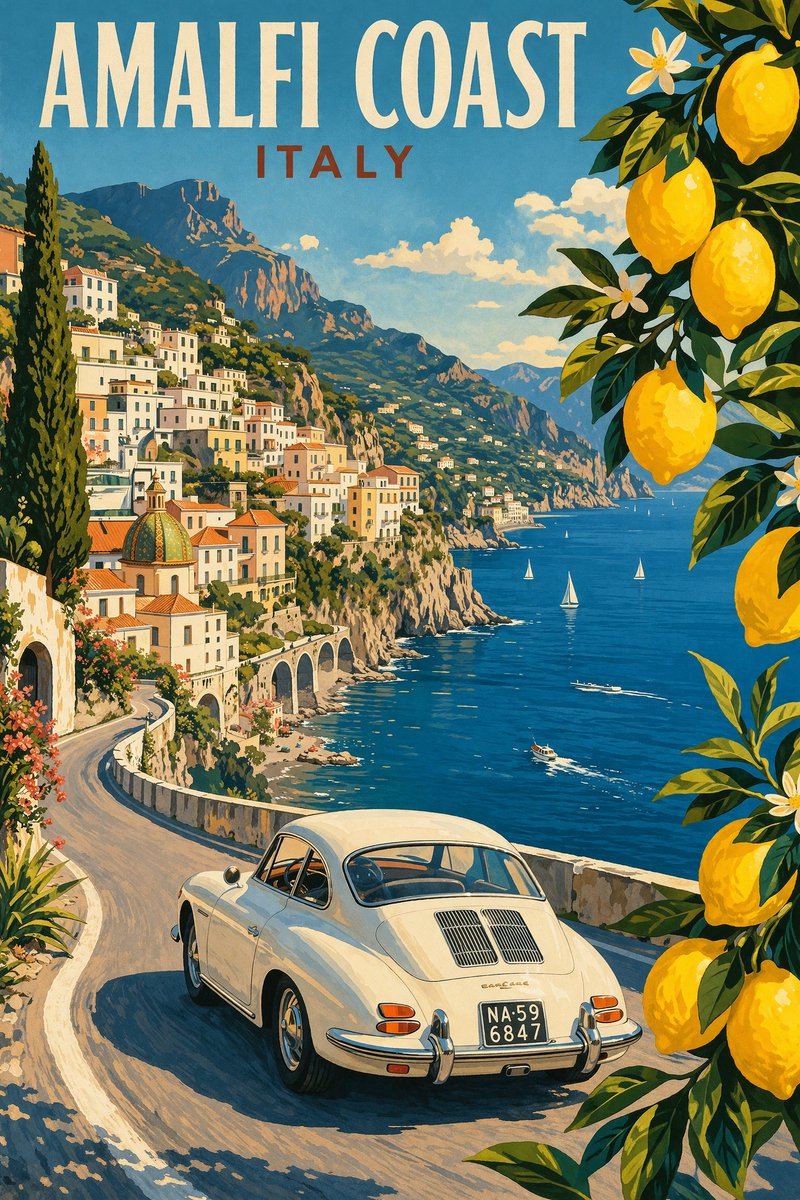
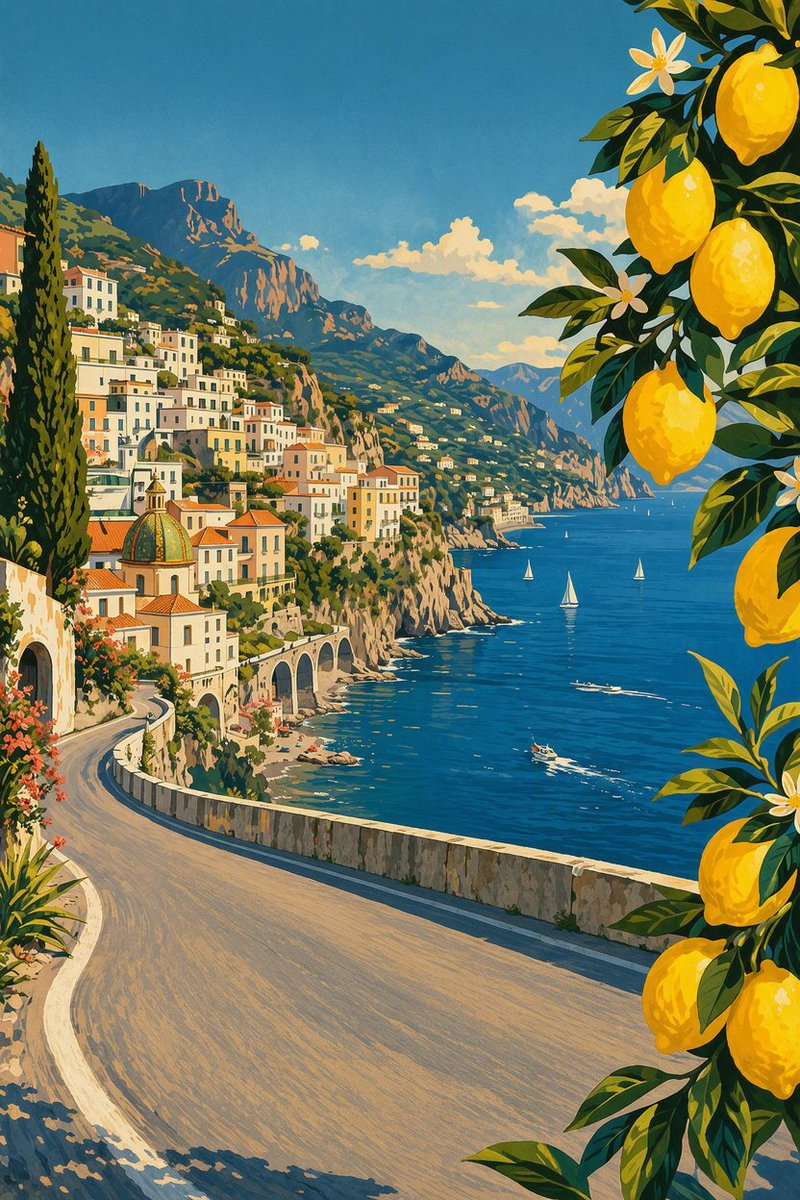
Curate cases: remove non-generated UI case, give comparisons 2 images
- Remove @seisei_ai_1st 'AI News Top 3' UI case (a news infographic, not a MAI-generated image); promote @tmiyatake1 to UI Case 1
- @WolfRiccardo object-removal edit now shows Input + Output (before/after)
- @eyupyusufa now shows both source images side by side (MAI-Image-2.5 | Nano Banana Pro)
- Every comparison case has >=2 images
- Fix broken leaderboard credit URL (x.com/@arena -> x.com/arena)
- 9 cases total; update Menu, Acknowledge, ingested_tweets.json

diff --git a/README.md b/README.md
@@ -28,7 +28,7 @@
 
 <a href="https://x.com/berryxia/status/2061988157349130675"><img src="images/leaderboard/output.jpg" width="640" alt="MAI-Image-2.5 ranks #2 on the LMArena Image Edit leaderboard"></a>
 
-***MAI-Image-2.5 lands #2 on the LMArena Image Edit leaderboard — ahead of Nano Banana Pro.*** (leaderboard shared by [@berryxia](https://x.com/berryxia))
+***MAI-Image-2.5 lands #2 on the LMArena Image Edit leaderboard — ahead of Nano Banana Pro.*** (leaderboard shared by [@arena](https://x.com/arena))
 
 </div>
 
@@ -71,8 +71,7 @@ If you find this useful, consider giving it a star. ⭐
   - [Case 2: Anime Character Illustration (by @WaifuGacha)](#case-2-anime-character-illustration-by-waifugacha)
   - [Case 3: Pose Edit with Art-Style Preservation (by @genel_ai)](#case-3-pose-edit-with-art-style-preservation-by-genelai)
 - [🖥 UI & Social Media Mockup Cases](#-ui--social-media-mockup-cases)
-  - [Case 1: AI News Top 3 Infographic Card (by @seisei_ai_1st)](#case-1-ai-news-top-3-infographic-card-by-seiseiai1st)
-  - [Case 2: Model Lineup Social Card (by @tmiyatake1)](#case-2-model-lineup-social-card-by-tmiyatake1)
+  - [Case 1: Model Lineup Social Card (by @tmiyatake1)](#case-1-model-lineup-social-card-by-tmiyatake1)
 - [🆚 Comparison & Community Examples](#-comparison--community-examples)
   - [Case 1: Object Removal Edit, Text & Car (by @WolfRiccardo)](#case-1-object-removal-edit-text--car-by-wolfriccardo)
   - [Case 2: MAI-Image-2.5 vs Nano Banana Pro (by @eyupyusufa)](#case-2-mai-image-25-vs-nano-banana-pro-by-eyupyusufa)
@@ -226,28 +225,11 @@ Change only the character's pose to [new pose] while keeping the original artwor
 
 ## 🖥 UI & Social Media Mockup Cases
 
-### Case 1: [AI News Top 3 Infographic Card](https://x.com/seisei_ai_1st/status/2061997864646222028) (by [@seisei_ai_1st](https://x.com/seisei_ai_1st))
+### Case 1: [Model Lineup Social Card](https://x.com/tmiyatake1/status/2061961813009326580) (by [@tmiyatake1](https://x.com/tmiyatake1))
 
 | Output |
 | :----: |
-| <img src="images/ui_case1/output.jpg" width="600" alt="AI news Top 3 infographic social card generated by MAI-Image-2.5"> |
-
-**Prompt:**
-
-```
-A clean social-media infographic card titled "AI News Top 3". Three numbered ranked items stacked vertically, each with a bold headline, a small icon, and a one-line caption. Modern flat design, strong typographic hierarchy, balanced grid layout, brand-consistent accent color, 9:16 vertical aspect ratio suitable for a feed post. Crisp, legible text rendering.
-```
-
-> [!NOTE]
-> **Reconstructed prompt.** Replace the three ranked items and the title with your own content. Demonstrates MAI-Image-2.5's text-rendering and layout for social cards.
-
----
-
-### Case 2: [Model Lineup Social Card](https://x.com/tmiyatake1/status/2061961813009326580) (by [@tmiyatake1](https://x.com/tmiyatake1))
-
-| Output |
-| :----: |
-| <img src="images/ui_case2/output.jpg" width="600" alt="Product lineup social card listing model names and one-line descriptions, generated by MAI-Image-2.5"> |
+| <img src="images/ui_case1/output.jpg" width="600" alt="Product lineup social card listing model names and one-line descriptions, generated by MAI-Image-2.5"> |
 
 **Prompt:**
 
@@ -262,9 +244,9 @@ A product-announcement social card listing a family of AI models. A bold title a
 
 ### Case 1: [Object Removal Edit, Text & Car](https://x.com/WolfRiccardo/status/2061902205779632501) (by [@WolfRiccardo](https://x.com/WolfRiccardo))
 
-| Output |
-| :----: |
-| <img src="images/comparison_case1/output.jpg" width="600" alt="MAI-Image-2.5 image edit removing text and a car from a photo"> |
+| Input | Output |
+| :---: | :----: |
+| <img src="images/comparison_case1/input.jpg" width="300" alt="Original Amalfi Coast travel poster with title text and a white car"> | <img src="images/comparison_case1/output.jpg" width="300" alt="Same poster with the title text and car removed by MAI-Image-2.5"> |
 
 **Input:** Upload one photo to edit.
 
@@ -281,12 +263,12 @@ texts and car / remove
 
 ### Case 2: [MAI-Image-2.5 vs Nano Banana Pro](https://x.com/eyupyusufa/status/2061934129046843543) (by [@eyupyusufa](https://x.com/eyupyusufa))
 
-| Output (left: MAI-Image-2.5, right: Nano Banana Pro) |
-| :----: |
-| <img src="images/comparison_case2/output.jpg" width="600" alt="Side-by-side comparison of MAI-Image-2.5 and Nano Banana Pro outputs"> |
+| MAI-Image-2.5 | Nano Banana Pro |
+| :-----------: | :-------------: |
+| <img src="images/comparison_case2/output0.jpg" width="300" alt="MAI-Image-2.5 rendering a Turkish classroom scene with chalkboard text"> | <img src="images/comparison_case2/output1.jpg" width="300" alt="Nano Banana Pro rendering the same Turkish classroom scene with chalkboard text"> |
 
 > [!NOTE]
-> Community comparison example — the author published the side-by-side result without a reusable prompt. Included for reference on how MAI-Image-2.5 stacks up against Nano Banana Pro.
+> Community comparison example — same prompt run on both models, published without a reusable prompt. A text-rendering test (the Atatürk quote "Hayatta en hakiki mürşit ilimdir.") shown for reference on how MAI-Image-2.5 stacks up against Nano Banana Pro.
 
 ## 🙏 Acknowledge
 
@@ -300,7 +282,6 @@ Thanks to the creators and contributors who shared their MAI-Image-2.5 work publ
 - [@mk0600937254693](https://x.com/mk0600937254693)
 - [@WaifuGacha](https://x.com/WaifuGacha)
 - [@genel_ai](https://x.com/genel_ai)
-- [@seisei_ai_1st](https://x.com/seisei_ai_1st)
 - [@tmiyatake1](https://x.com/tmiyatake1)
 - [@WolfRiccardo](https://x.com/WolfRiccardo)
 - [@eyupyusufa](https://x.com/eyupyusufa)

diff --git a/cases/comparison.md b/cases/comparison.md
@@ -2,9 +2,9 @@
 
 ### Case 1: [Object Removal Edit, Text & Car](https://x.com/WolfRiccardo/status/2061902205779632501) (by [@WolfRiccardo](https://x.com/WolfRiccardo))
 
-| Output |
-| :----: |
-| <img src="../images/comparison_case1/output.jpg" width="600" alt="MAI-Image-2.5 image edit removing text and a car from a photo"> |
+| Input | Output |
+| :---: | :----: |
+| <img src="../images/comparison_case1/input.jpg" width="300" alt="Original Amalfi Coast travel poster with title text and a white car"> | <img src="../images/comparison_case1/output.jpg" width="300" alt="Same poster with the title text and car removed by MAI-Image-2.5"> |
 
 **Input:** Upload one photo to edit.
 
@@ -21,10 +21,10 @@ texts and car / remove
 
 ### Case 2: [MAI-Image-2.5 vs Nano Banana Pro](https://x.com/eyupyusufa/status/2061934129046843543) (by [@eyupyusufa](https://x.com/eyupyusufa))
 
-| Output (left: MAI-Image-2.5, right: Nano Banana Pro) |
-| :----: |
-| <img src="../images/comparison_case2/output.jpg" width="600" alt="Side-by-side comparison of MAI-Image-2.5 and Nano Banana Pro outputs"> |
+| MAI-Image-2.5 | Nano Banana Pro |
+| :-----------: | :-------------: |
+| <img src="../images/comparison_case2/output0.jpg" width="300" alt="MAI-Image-2.5 rendering a Turkish classroom scene with chalkboard text"> | <img src="../images/comparison_case2/output1.jpg" width="300" alt="Nano Banana Pro rendering the same Turkish classroom scene with chalkboard text"> |
 
 > [!NOTE]
-> Community comparison example — the author published the side-by-side result without a reusable prompt. Included for reference on how MAI-Image-2.5 stacks up against Nano Banana Pro.
+> Community comparison example — same prompt run on both models, published without a reusable prompt. A text-rendering test (the Atatürk quote "Hayatta en hakiki mürşit ilimdir.") shown for reference on how MAI-Image-2.5 stacks up against Nano Banana Pro.
 

diff --git a/cases/ui.md b/cases/ui.md
@@ -1,27 +1,10 @@
 # 🖥 UI & Social Media Mockup Cases
 
-### Case 1: [AI News Top 3 Infographic Card](https://x.com/seisei_ai_1st/status/2061997864646222028) (by [@seisei_ai_1st](https://x.com/seisei_ai_1st))
+### Case 1: [Model Lineup Social Card](https://x.com/tmiyatake1/status/2061961813009326580) (by [@tmiyatake1](https://x.com/tmiyatake1))
 
 | Output |
 | :----: |
-| <img src="../images/ui_case1/output.jpg" width="600" alt="AI news Top 3 infographic social card generated by MAI-Image-2.5"> |
-
-**Prompt:**
-
-```
-A clean social-media infographic card titled "AI News Top 3". Three numbered ranked items stacked vertically, each with a bold headline, a small icon, and a one-line caption. Modern flat design, strong typographic hierarchy, balanced grid layout, brand-consistent accent color, 9:16 vertical aspect ratio suitable for a feed post. Crisp, legible text rendering.
-```
-
-> [!NOTE]
-> **Reconstructed prompt.** Replace the three ranked items and the title with your own content. Demonstrates MAI-Image-2.5's text-rendering and layout for social cards.
-
----
-
-### Case 2: [Model Lineup Social Card](https://x.com/tmiyatake1/status/2061961813009326580) (by [@tmiyatake1](https://x.com/tmiyatake1))
-
-| Output |
-| :----: |
-| <img src="../images/ui_case2/output.jpg" width="600" alt="Product lineup social card listing model names and one-line descriptions, generated by MAI-Image-2.5"> |
+| <img src="../images/ui_case1/output.jpg" width="600" alt="Product lineup social card listing model names and one-line descriptions, generated by MAI-Image-2.5"> |
 
 **Prompt:**
 
